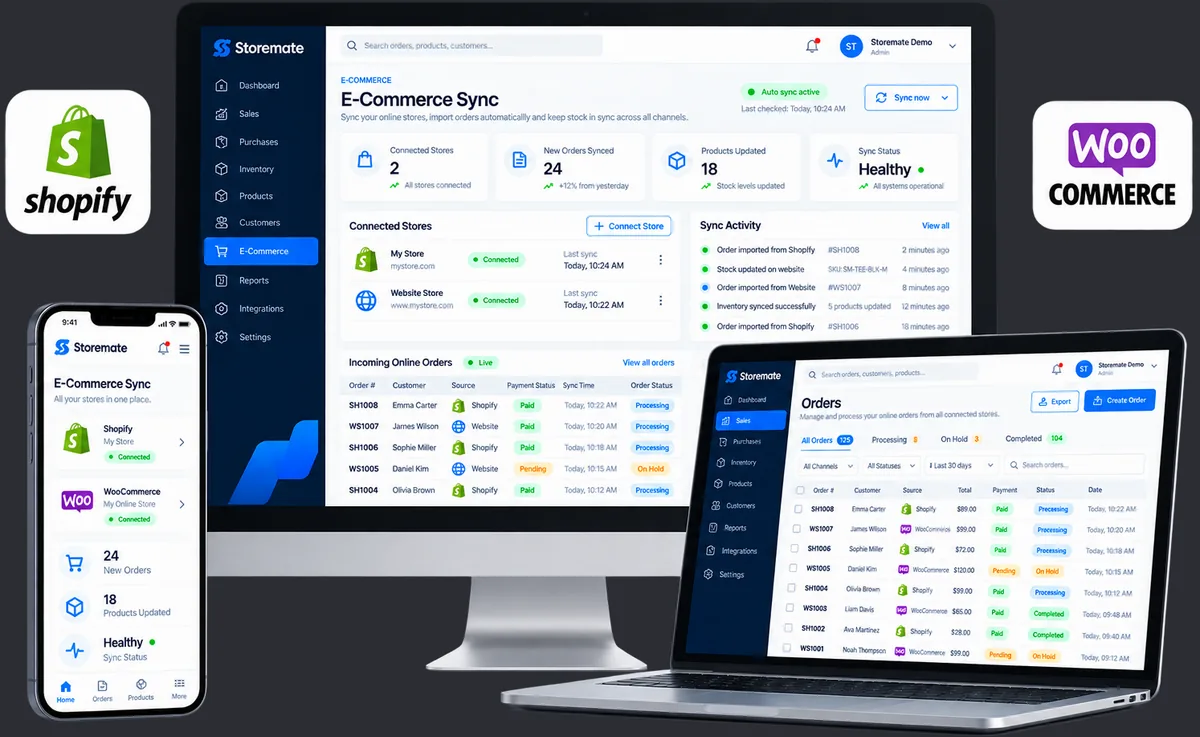
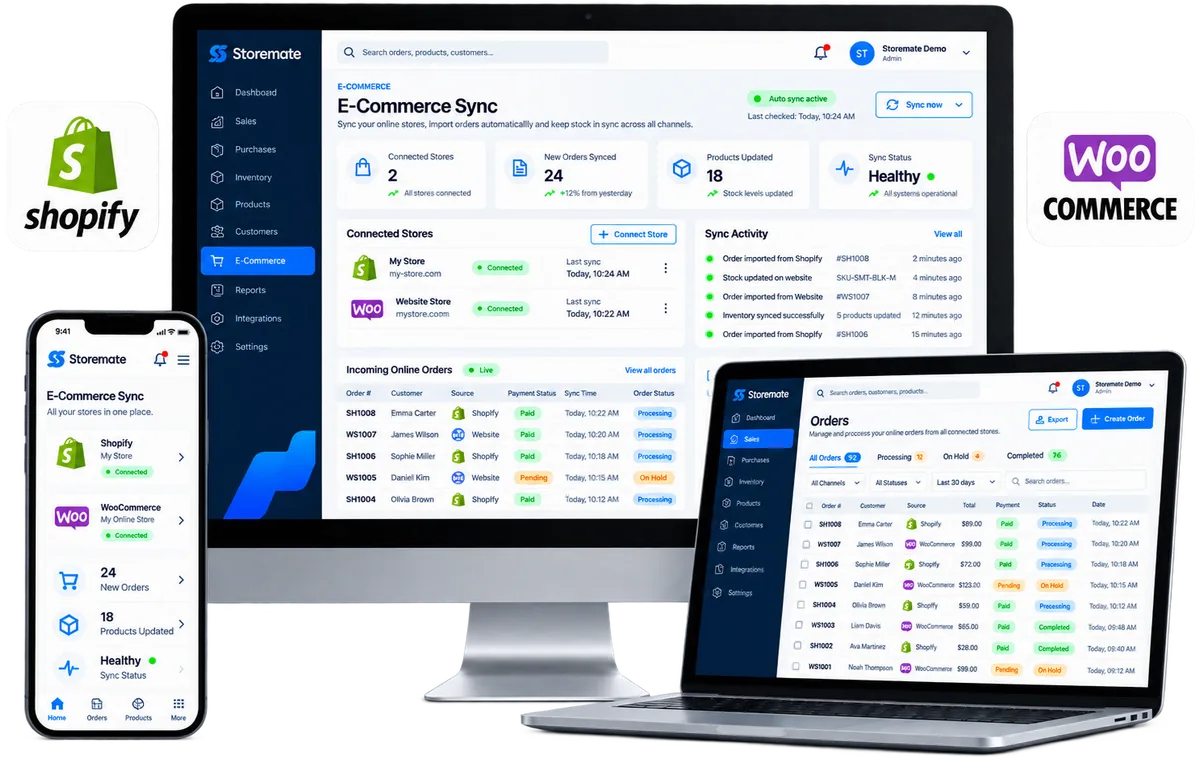
swap the OMS and e-commerce panel images on /erp-v2
- OMS panel now shows the dashboard artwork, converted from the 2.8MB
  1.png to a 63KB webp; trim is skipped because the laptop's drop shadow
  reaches all four edges, so there is no uniform border to crop
- e-commerce screenshot replaced with the cut-out version, which keeps
  its alpha rather than being flattened onto a baked-in backdrop
- both move from the framed .shot wrapper to the plain .art one, since
  a bordered mist box would draw a frame around a transparent cutout

diff --git a/erp-v2.html b/erp-v2.html
@@ -559,8 +559,8 @@
             <p>From confirming the order to printing the waybill, sending it to the courier
               and handling returns, your team follows one simple process.</p>
           </div>
-          <div class="shot"><img src="images/sync/Sync2.png"
-               alt="Storemate OMS order list with courier sync" width="1200" height="760" loading="lazy"></div>
+          <div class="art"><img src="images/screenshots/software/oms-dashboard.webp"
+               alt="Storemate OMS dashboard on a laptop, showing order and sales summaries, orders by source and courier-wise sales distribution" width="1200" height="724" loading="lazy" decoding="async"></div>
           <ul class="pts">
             <li><svg viewBox="0 0 24 24" fill="none" stroke="currentColor" stroke-width="2.5" stroke-linecap="round" stroke-linejoin="round" aria-hidden="true"><path d="M20 6 9 17l-5-5"/></svg>Orders from Facebook, WhatsApp, TikTok and your website in one list</li>
             <li><svg viewBox="0 0 24 24" fill="none" stroke="currentColor" stroke-width="2.5" stroke-linecap="round" stroke-linejoin="round" aria-hidden="true"><path d="M20 6 9 17l-5-5"/></svg>One click sends the order to Royal Express, TransEx, FDE, DomEx or Koombiyo</li>
@@ -601,8 +601,8 @@
             <p>When a customer places an order online, it comes directly into Storemate,
               while stock updates automatically across both systems.</p>
           </div>
-          <div class="shot"><img src="images/screenshots/software/ecommerce-sync.webp"
-               alt="Storemate e-commerce sync screen showing connected Shopify and website stores, incoming online orders and live sync activity" width="1200" height="737" loading="lazy" decoding="async"></div>
+          <div class="art"><img src="images/screenshots/software/ecommerce-sync.webp"
+               alt="Storemate e-commerce sync on desktop, laptop and mobile, showing connected Shopify and WooCommerce stores, incoming online orders and live sync activity" width="1200" height="757" loading="lazy" decoding="async"></div>
           <ul class="pts">
             <li><svg viewBox="0 0 24 24" fill="none" stroke="currentColor" stroke-width="2.5" stroke-linecap="round" stroke-linejoin="round" aria-hidden="true"><path d="M20 6 9 17l-5-5"/></svg>Products, prices and images published from your item master</li>
             <li><svg viewBox="0 0 24 24" fill="none" stroke="currentColor" stroke-width="2.5" stroke-linecap="round" stroke-linejoin="round" aria-hidden="true"><path d="M20 6 9 17l-5-5"/></svg>Website or Shopify orders arrive in the same queue as social orders</li>
